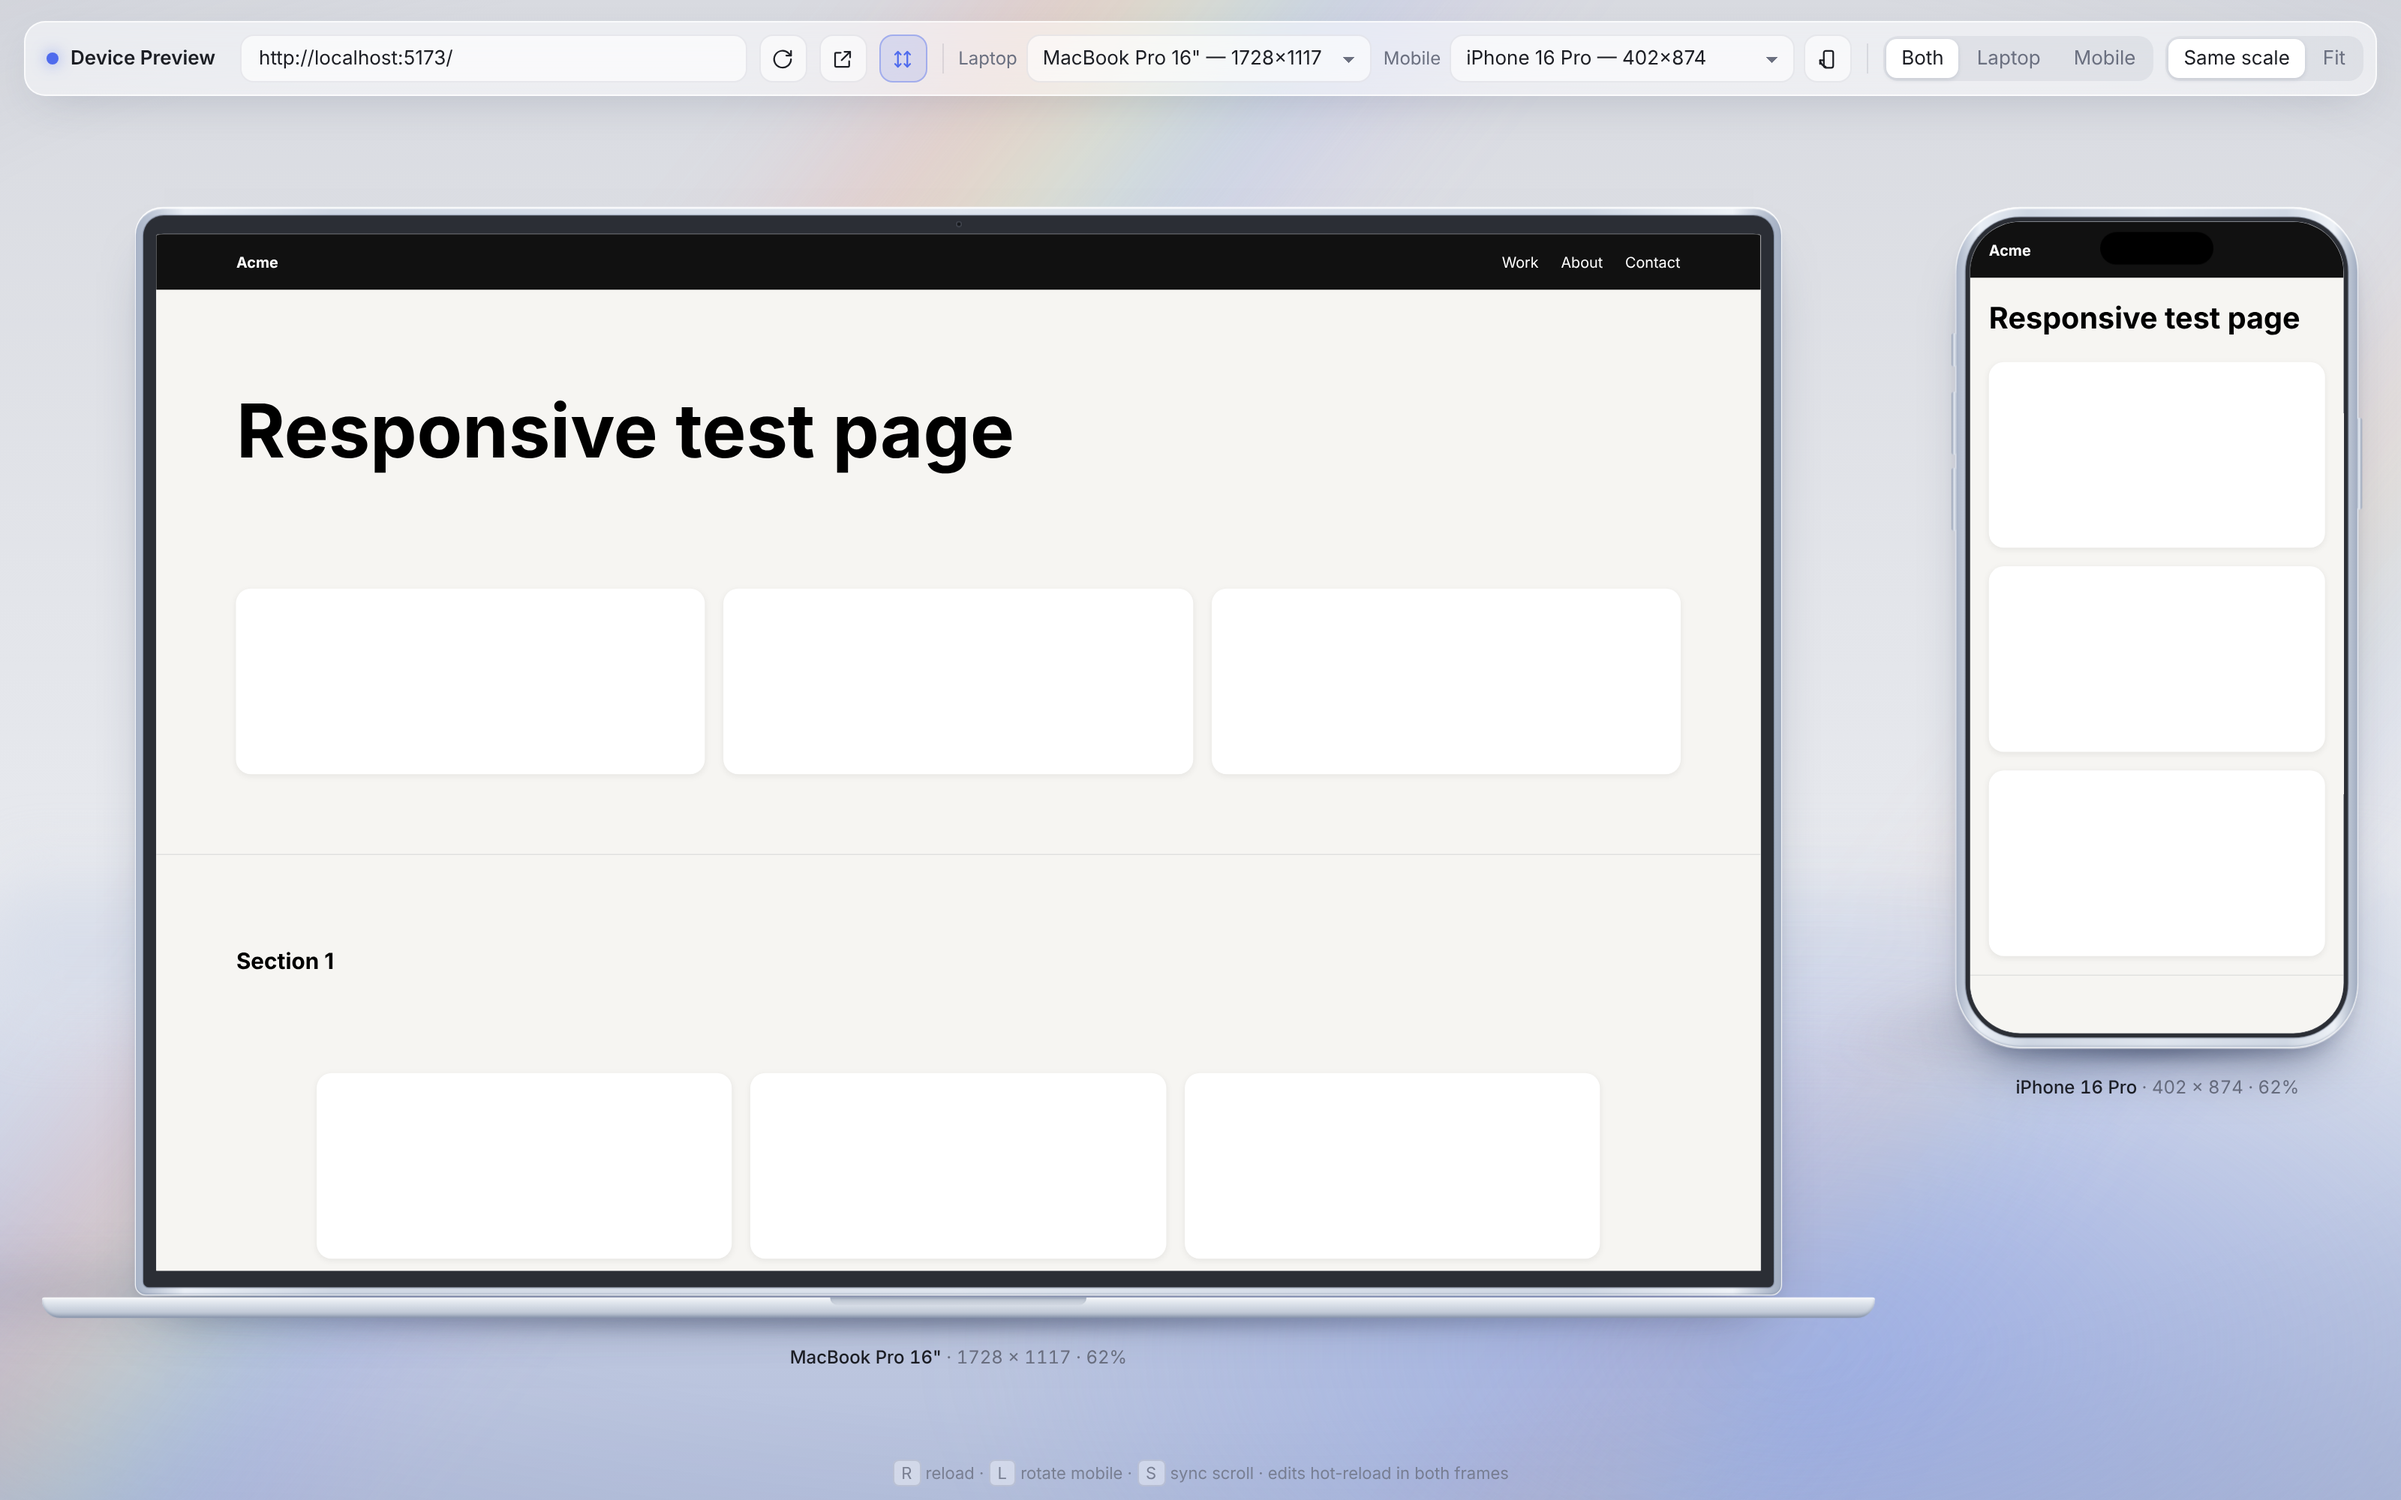
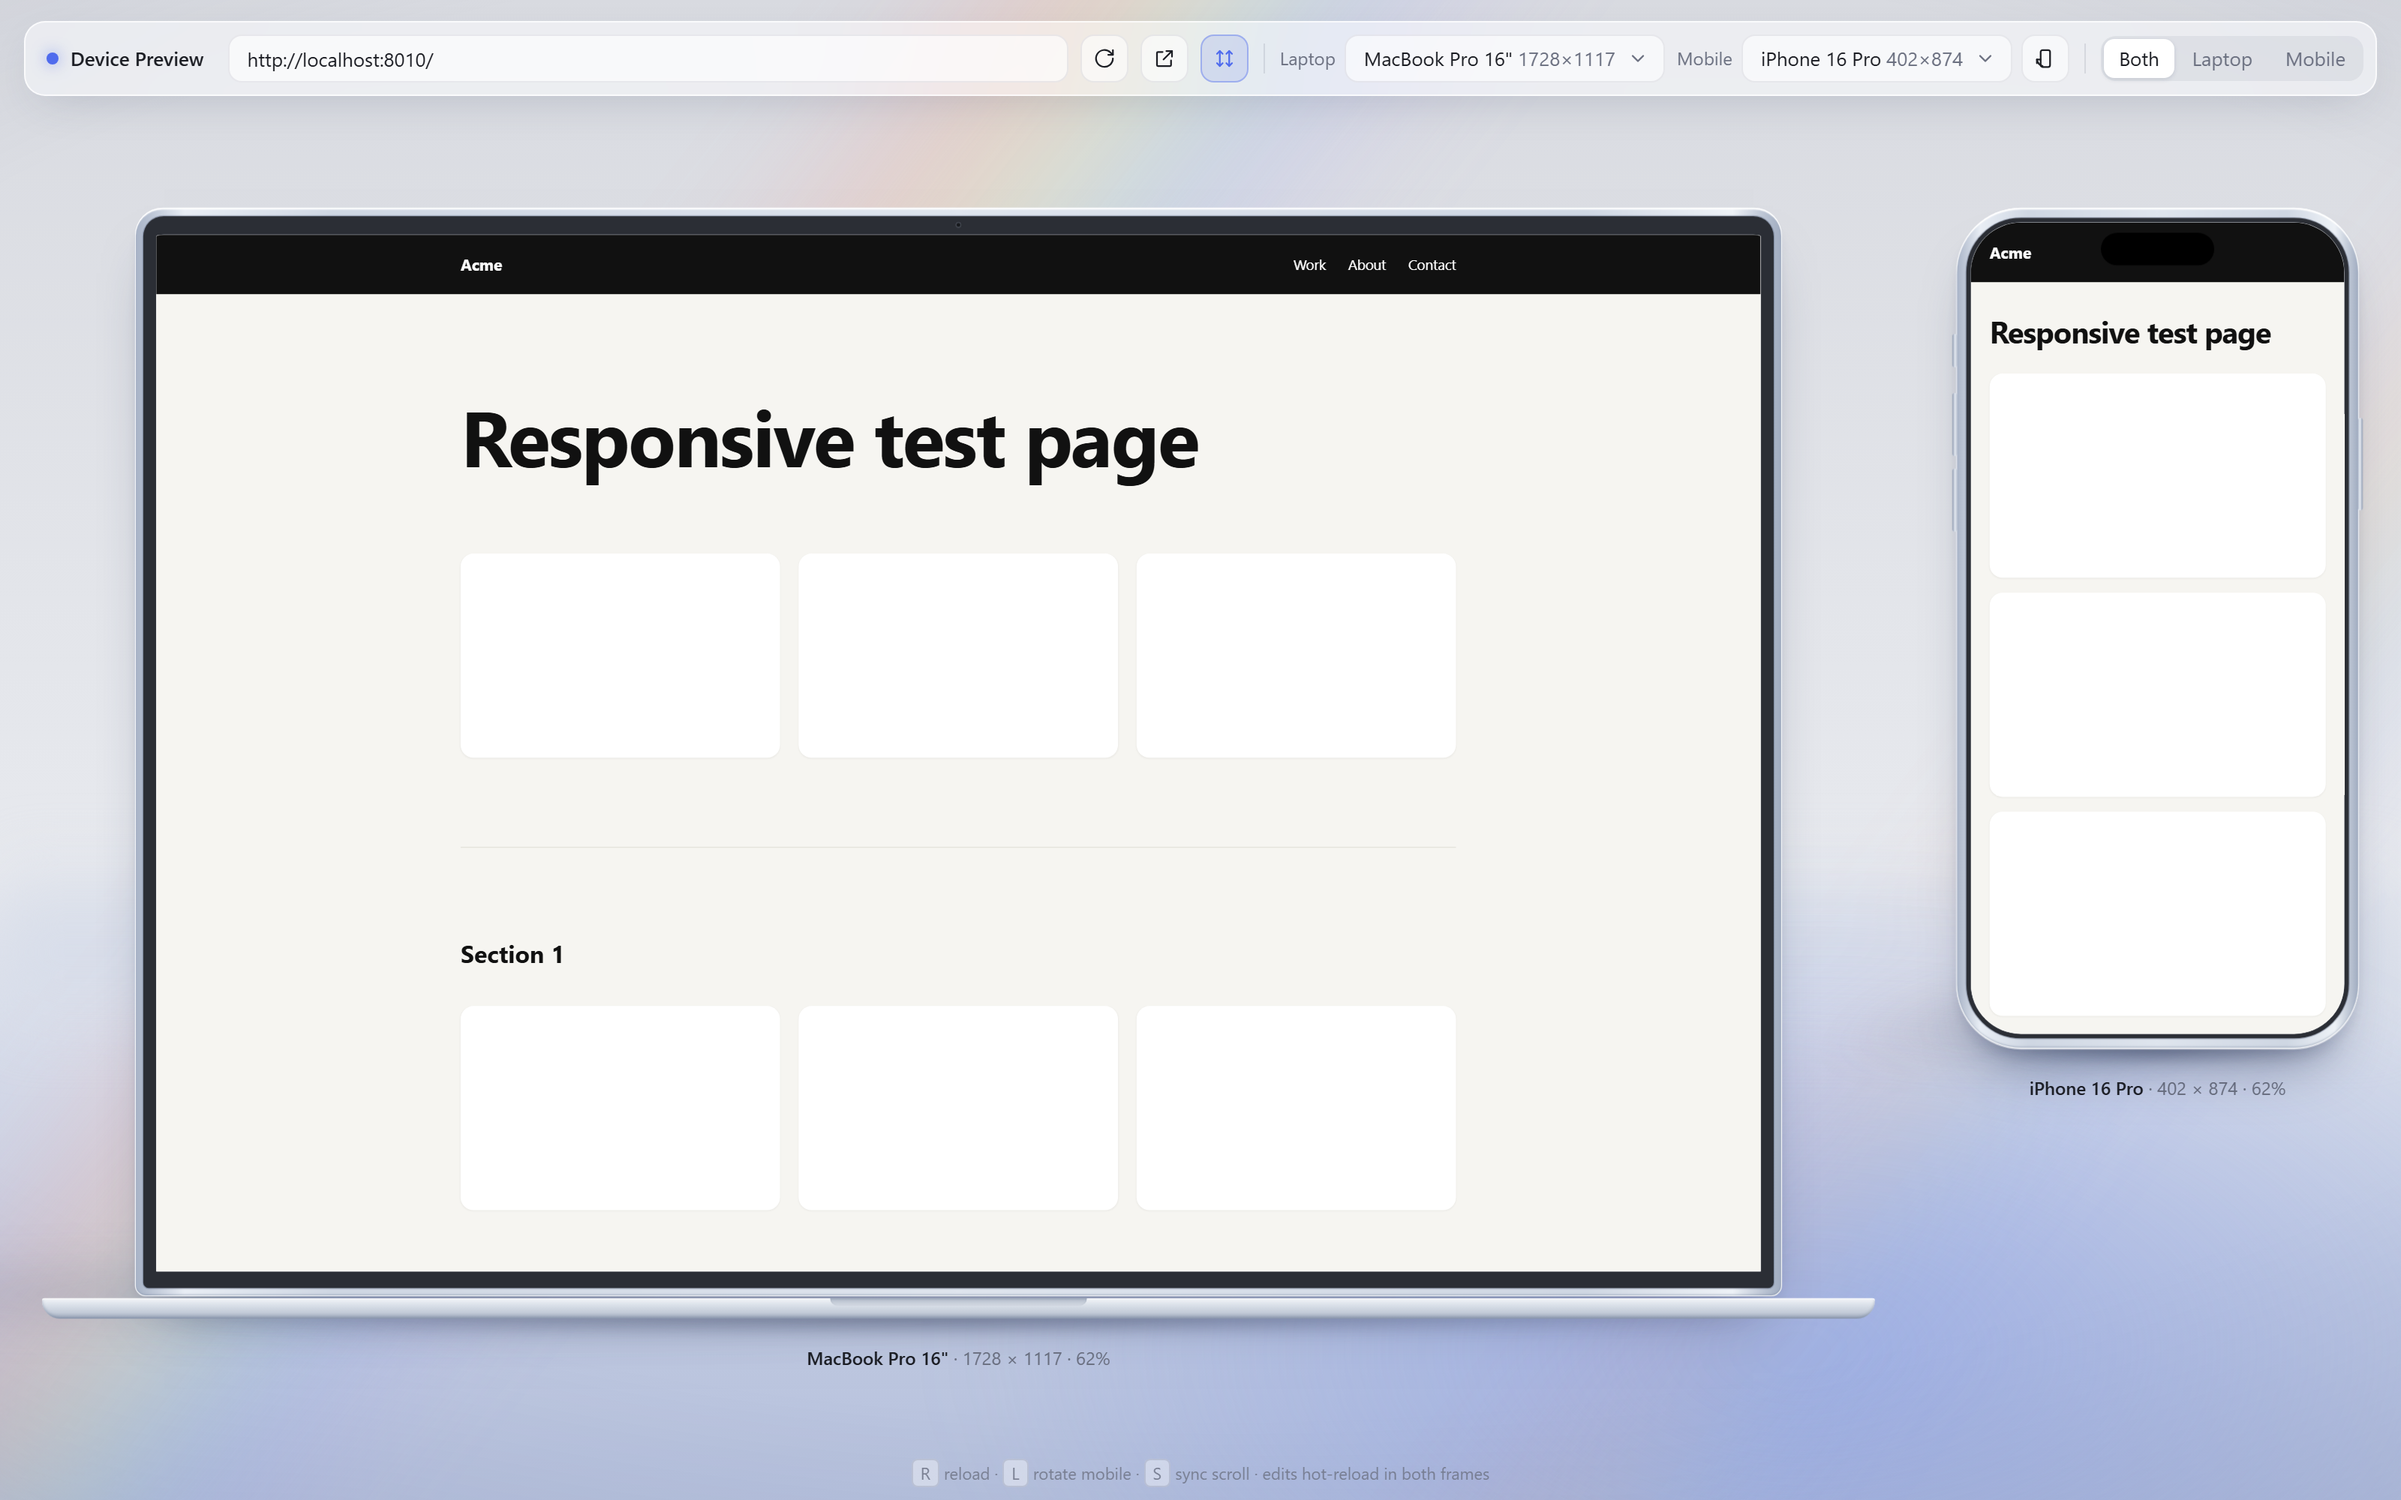
Fix plugin install steps and refresh README screenshot
The one-step /plugin install --marketplace form does not exist, so list
the marketplace add + install steps. Drop the removed Same scale / Fit
option from the feature list and replace the screenshot with the
current toolbar.

diff --git a/README.md b/README.md
@@ -12,7 +12,8 @@ frame is mirrored in the other, and hot reload updates both.
 
 - Laptop sizes: MacBook Pro 16" / 14", MacBook Air 15" / 13", laptop 1440 / 1366 / 1280, desktop 1080p / 1440p
 - Mobile sizes: iPhone 16 Pro / Pro Max / 15, iPhone 13 mini, iPhone SE, Pixel 9, Galaxy S24, small Android, iPad mini, iPad Air
-- Rotate mobile to landscape, show both or just one, "Same scale" or "Fit"
+- Rotate mobile to landscape, show both devices or just one (Both / Laptop / Mobile)
+- Both devices share one scale, so their real size relation stays true
 - Synced scroll and navigation (toggle with the ⇅ button)
 - Shortcuts: `R` reload both, `L` rotate mobile, `S` toggle sync
 - Tested with Vite and Next.js, including hot reload
@@ -21,30 +22,25 @@ frame is mirrored in the other, and hot reload updates both.
 
 Pick one.
 
-### npx (works with Claude Code, Cursor, Codex and other agents)
+### npx
 
 ```bash
 npx skills add komangbayu04/skill@device-preview
 ```
 
-Then run `/device-preview` in Claude Code.
+Then run `/device-preview` in Claude Code. The same command also installs the skill for
+other agents such as Cursor and Codex, but it is built and tested for Claude Code.
 
 ### Claude Code plugin
 
 Inside Claude Code:
 
 ```
-/plugin install bayu --marketplace komangbayu04/skill
-```
-
-On older Claude Code versions, use two steps instead:
-
-```
 /plugin marketplace add komangbayu04/skill
 /plugin install bayu@bayu-skills
 ```
 
-Then run `/bayu:device-preview`. Plugin updates arrive automatically.
+Then run `/bayu:device-preview`. To get updates later, run `/plugin marketplace update bayu-skills`.
 
 ### Manual
 
